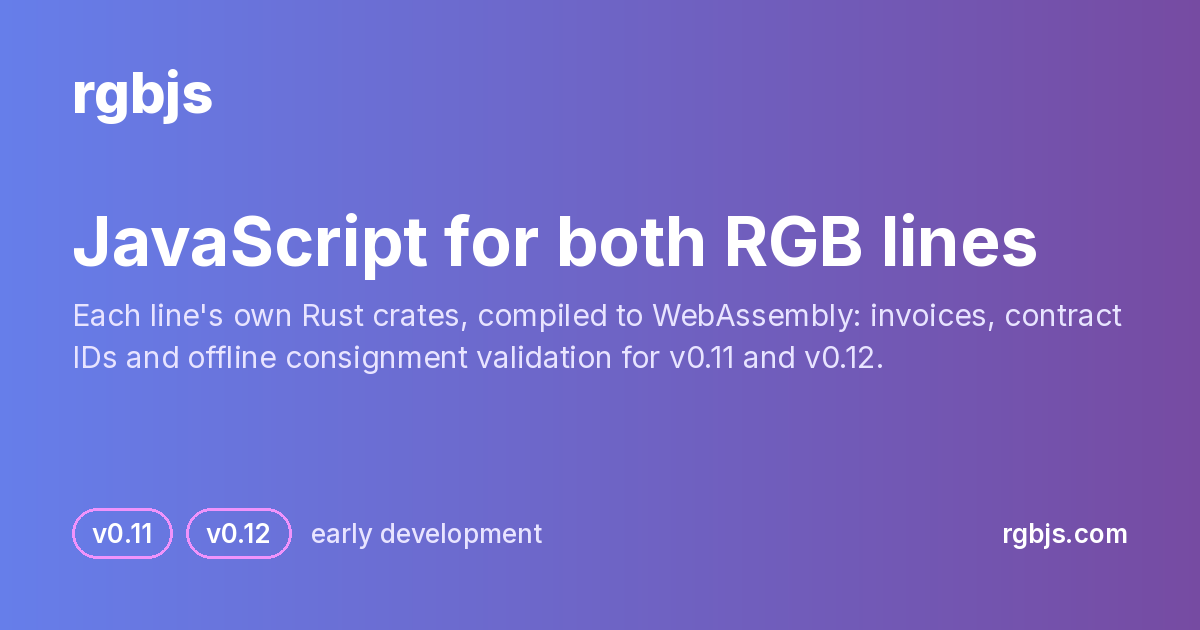
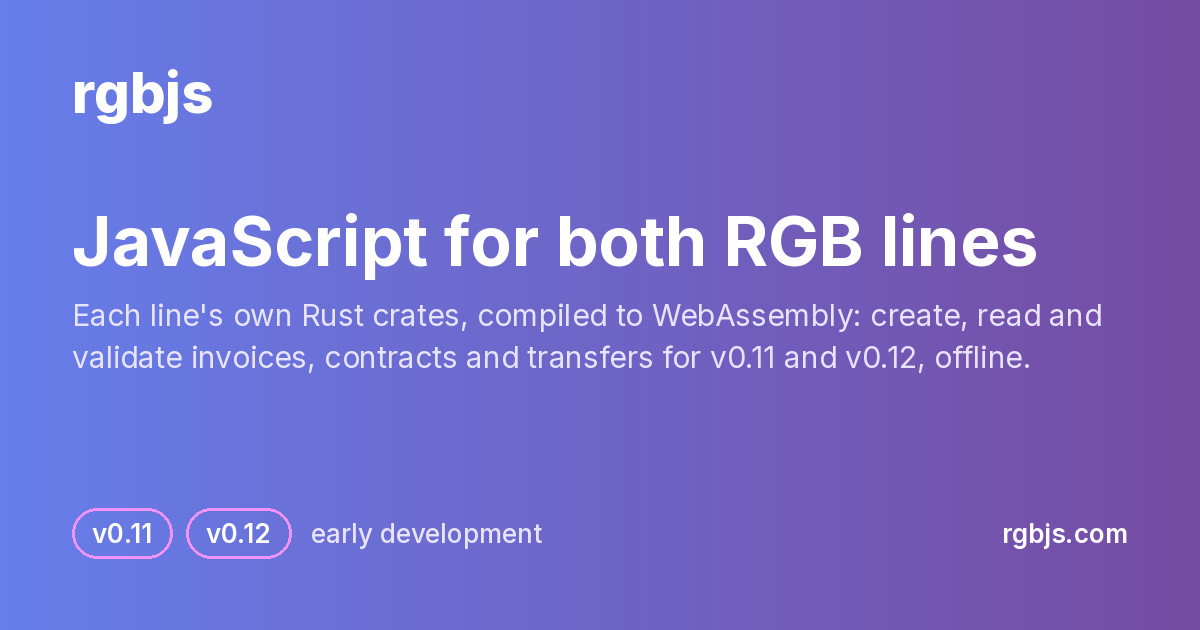
Landing page card and description: mention creating

Changed region(s): [[0.0617, 0.4825, 0.9558, 0.6032]]

diff --git a/index.html b/index.html
@@ -7,7 +7,7 @@
     <title>rgbjs: JavaScript for both RGB lines</title>
     <meta
       name="description"
-      content="JavaScript for both RGB lines (v0.11 and v0.12), built from each line's own Rust crates compiled to WebAssembly. Early development."
+      content="JavaScript for both RGB lines (v0.11 and v0.12): create, read and validate invoices, contracts and transfers offline, with each line's own Rust crates compiled to WebAssembly. Early development."
     />
 
     <!-- Open Graph / Twitter -->
@@ -16,14 +16,14 @@
     <meta property="og:site_name" content="rgbjs" />
     <meta property="og:url" content="https://rgbjs.com/" />
     <meta property="og:title" content="rgbjs: JavaScript for both RGB lines" />
-    <meta property="og:description" content="JavaScript for both RGB lines (v0.11 and v0.12), built from each line's own Rust crates compiled to WebAssembly. Early development." />
+    <meta property="og:description" content="JavaScript for both RGB lines (v0.11 and v0.12): create, read and validate invoices, contracts and transfers offline, with each line's own Rust crates compiled to WebAssembly. Early development." />
     <meta property="og:image" content="https://rgbjs.com/img/og.png" />
     <meta property="og:image:width" content="1200" />
     <meta property="og:image:height" content="630" />
     <meta property="og:image:alt" content="rgbjs: JavaScript for both RGB lines, v0.11 and v0.12" />
     <meta name="twitter:card" content="summary_large_image" />
     <meta name="twitter:title" content="rgbjs: JavaScript for both RGB lines" />
-    <meta name="twitter:description" content="JavaScript for both RGB lines (v0.11 and v0.12), built from each line's own Rust crates compiled to WebAssembly. Early development." />
+    <meta name="twitter:description" content="JavaScript for both RGB lines (v0.11 and v0.12): create, read and validate invoices, contracts and transfers offline, with each line's own Rust crates compiled to WebAssembly. Early development." />
     <meta name="twitter:image" content="https://rgbjs.com/img/og.png" />
 
     <style>

diff --git a/scripts/og.py b/scripts/og.py
@@ -14,8 +14,8 @@ WHITE, SOFT, PILL = (255, 255, 255), (232, 228, 255), (240, 147, 251)
 
 CARDS = {
     'og.png': ('JavaScript for both RGB lines',
-               "Each line's own Rust crates, compiled to WebAssembly: invoices, contract IDs "
-               'and offline consignment validation for v0.11 and v0.12.'),
+               "Each line's own Rust crates, compiled to WebAssembly: create, read and validate "
+               'invoices, contracts and transfers for v0.11 and v0.12, offline.'),
     'og-create.png': ('Create an RGB contract or invoice',
                       'Issue a token or make an invoice on a test network, for either RGB line, '
                       'offline in your browser.'),
